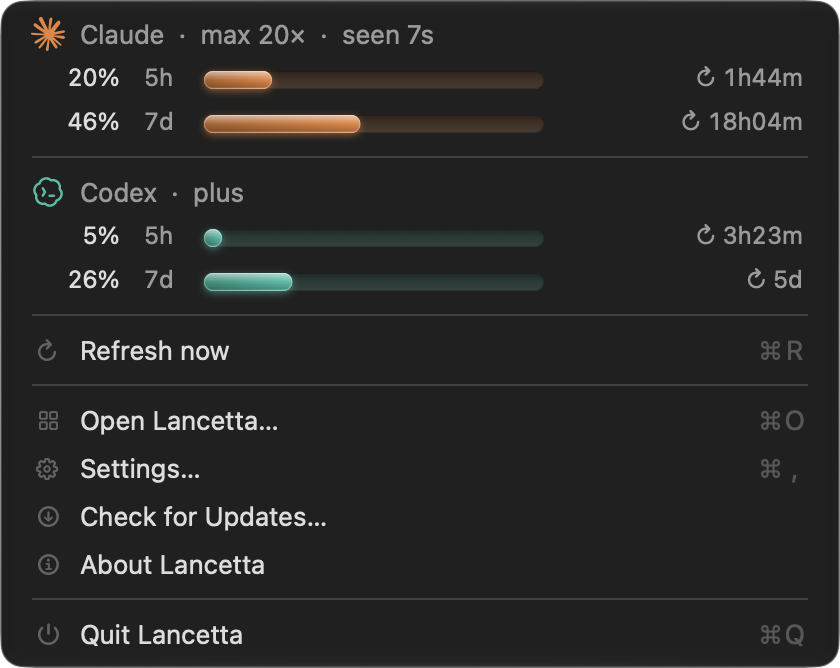
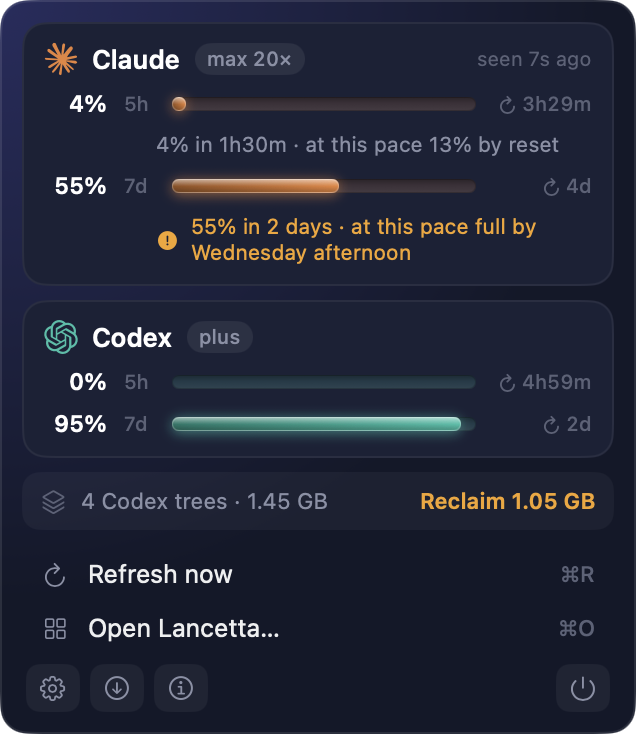
docs: the menu is a panel, and the pace line ships
Two things land in the app's v0.4 and this site described neither.

The status menu is now a panel: an NSMenu's background belongs to the
system, so the one surface of the app that was system grey could not be
anything else while it stayed a menu. Every page that called it "the
menu" as a surface says panel, the nav entry is The Panel, and the route
stays /docs/the-menu so no link breaks. The capture is replaced and the
light one is deleted rather than re-shot: the panel is always dark now,
so there is no light variant to photograph, and a second file that is a
copy of the first is worse than one.

The pace line was undocumented. It gets its own section on the panel
page, the two switches that govern it in Settings, and a feature card
ahead of the age card -- the order in the grid mirrors the hero's, and
that is one decision rather than two.

The hero's advice frame drops `next` and takes the lead. HeroStage's own
comment asked for exactly this revisit and named the condition: the
reaper went first because it shipped and the advice did not, so the
page's first claim below the fold would otherwise have been a promise.
It ships now, so the deeper moat leads and the frame gets a screenshot
like any other -- a page that dresses a promise like a shipped feature
has to be read carefully to be trusted, and the inverse is just as true.

`heroReading` is re-read off the new capture, because it is read off the
screenshot beside it and a bar quoting numbers the picture does not show
[…]

diff --git a/components/HeroStage/HeroStage.tsx b/components/HeroStage/HeroStage.tsx
@@ -83,15 +83,28 @@ const windowSession: MenuBarReadingState = {
  * to advise from. So those two lead, and the surfaces that every monitor has
  * — a menu, an island, a window, a chart — come after them.
  *
- * The reaper goes FIRST of the two although the advice is the deeper moat,
- * for one reason that is not editorial: the reaper ships today and the advice
- * does not. The pace line is merged on `main` and sits after the v0.3.4 tag
- * (`9e7caaf`, `82952ee`), and the alerts are still PR #36. A page whose first
- * claim below the fold is a promise is a weaker page than one whose first
- * claim is a number. When a release carries the pace, this order is worth
- * revisiting and `next` comes off that frame.
+ * The ADVICE goes first since v0.4, and that is the revisit this comment used
+ * to ask for. It was second, behind the reaper, for one reason that was not
+ * editorial: the advice did not ship, so the page's first claim below the fold
+ * would have been a promise rather than a number. The pace line ships in v0.4,
+ * so the deeper moat leads and the frame has a screenshot like any other.
+ * (The alerts are still PR #36, and they are on the roadmap, not here.)
  */
 const frames: Frame[] = [
+  {
+    src: '/screenshot-pace.png',
+    alt: 'A Lancetta card: the five-hour window at 4% with the line “4% in 1h30m · at this pace 13% by reset” under it, and the weekly window at 55% with “55% in 2 days · at this pace full by Wednesday afternoon” in amber',
+    eyebrow: 'What nothing else can say',
+    title: 'The number you can already see is not the useful one.',
+    body: 'The percentage is on your menu bar all day, so you already know when it is getting low. What you cannot see is whether this pace empties the window before it resets. Lancetta says it under the bar it is about, in the same place every time, amber only when the window would run out early — because a line that appears only in trouble is one nobody has learnt to read by the time it matters. It can say it because it keeps a series of its own readings; the field keeps the ceiling and the flow and no history at all.',
+    figures: [
+      { value: '7 days', label: 'the window that actually hurts' },
+      { value: 'since v0.2', label: 'the series it reads' },
+    ],
+    href: '/docs/the-menu#the-pace-line',
+    linkLabel: 'How the pace line reads',
+    reading: windowSession,
+  },
   {
     src: '/screenshot-window-processes.png',
     alt: 'The Processes pane: four Codex trees with the directory each one was started for, what it is holding and how many children it has, three of them marked as orphans, and a Reclaim button over the total',
@@ -106,21 +119,6 @@ const frames: Frame[] = [
     href: '/docs/memory',
     linkLabel: 'What accumulates, and why nothing reaps it',
     reading: windowSession,
-  },
-  {
-    src: '',
-    alt: '',
-    eyebrow: 'Next',
-    title: 'The number you can already see is not the useful one.',
-    body: 'The percentage is on your menu bar all day, so you already know when it is getting low. What you cannot see is whether this pace empties the window before it resets — and the moment you are no longer blocked, which is the one nobody can watch for, because being blocked is why they went somewhere else. Lancetta keeps a quota series, which is what an answer to either question needs; the field keeps the ceiling and the flow and no history at all.',
-    figures: [
-      { value: '7 days', label: 'the window that actually hurts' },
-      { value: 'since v0.2', label: 'the series it reads' },
-    ],
-    href: '/docs/roadmap',
-    linkLabel: 'Where this is in the roadmap',
-    reading: windowSession,
-    next: true,
   },
   {
     src: '/screenshot-notch-open.png',
@@ -178,15 +176,15 @@ const frames: Frame[] = [
  */
 const heroReading: MenuBarReadingState = {
   cells: [
-    { agent: 'claude', percent: 20, resets: '1h44m' },
-    { agent: 'codex', percent: 5, resets: '3h23m' },
+    { agent: 'claude', percent: 4, resets: '3h29m' },
+    { agent: 'codex', percent: 0, resets: '4h59m' },
   ],
   open: true,
 };
 
 const HERO_SHOT = {
   src: '/screenshot-menu-dark.png',
-  alt: 'The Lancetta menu: Claude Code and Codex, each with a 5-hour and a 7-day quota window and the time it resets',
+  alt: 'The Lancetta panel: Claude Code and Codex, each with a 5-hour and a 7-day quota window, the time each one resets, and the line saying where the window ends at the current rate',
 };
 
 export function HeroStage({ cadence = fallbackReleaseCadence() }: { cadence?: Cadence }) {

diff --git a/components/Welcome/Welcome.tsx b/components/Welcome/Welcome.tsx
@@ -8,6 +8,7 @@ import {
   IconBellRinging,
   IconBook2,
   IconChartHistogram,
+  IconChartLine,
   IconClockHour4,
   IconCreditCardOff,
   IconGauge,
@@ -81,8 +82,11 @@ interface Feature {
  * feature, and a card with no "will" and a badge reads as a lie.
  *
  * THE ORDER IS LOAD-BEARING, and mirrors the hero's three lines. First the
- * promise (the quota), then the two claims no competitor can make: that every
- * reading carries its age, and the orphaned trees nobody else reaps. Reclaim
+ * promise (the quota), then the claims no competitor can make: where this pace
+ * lands, that every reading carries its age, and the orphaned trees nobody
+ * else reaps. The pace card joined them in v0.4, ahead of the age, because
+ * the hero leads on it too — the order in the two places is one decision.
+ * Reclaim
  * sat SEVENTH until 2026-09-20, behind the notch and the mark switcher, while
  * the grid opened on "both windows, both agents" — which is exactly what the
  * free, open-source, 74-provider alternative also does. A reader who knows that
@@ -97,6 +101,14 @@ const features: Feature[] = [
       'The 5-hour and the 7-day window for Codex and Claude Code, drawn as bars, with the time each one resets beside it.',
     color: 'teal',
     href: '/docs/the-menu',
+  },
+  {
+    icon: IconChartLine,
+    title: 'Where this pace lands',
+    description:
+      'Under each bar, one line saying where that window ends at the rate you are going — amber only when it would run out before it resets. It can say it because it keeps a series of its own readings; the field keeps the ceiling and the flow and no history at all.',
+    color: 'orange',
+    href: '/docs/the-menu#the-pace-line',
   },
   {
     icon: IconClockHour4,
@@ -180,9 +192,15 @@ const roadmap = [
     state: 'shipped',
   },
   {
+    version: 'v0.4',
+    title: 'The pace, and the panel',
+    body: 'Under each bar, where that window ends at the rate you are going — amber only when it would run out early, and silent about the weekly one until your Mac has watched it turn over. And the menu became a panel in the app’s own navy: 318 points where a menu needed 466, with the four windowing commands as buttons along the bottom.',
+    state: 'shipped',
+  },
+  {
     version: 'Next',
     title: 'It speaks first',
-    body: 'A window that refused, a threshold crossed, a source gone quiet — and quota about to evaporate unused.',
+    body: 'A window that refused, and a source gone quiet past its own cadence. The advice half of this shipped in v0.4; what is left is the app speaking first rather than waiting to be looked at.',
     state: 'planned',
   },
   {

diff --git a/content/_meta.tsx b/content/_meta.tsx
@@ -38,7 +38,7 @@ export default {
   index: nav(IconBook2, 'Introduction', 'lancetta'),
   '---get-started': { type: 'separator', title: 'Get Started' },
   'getting-started': nav(IconRocket, 'Getting Started', 'orange'),
-  'the-menu': nav(IconLayoutNavbar, 'The Menu', 'teal'),
+  'the-menu': nav(IconLayoutNavbar, 'The Panel', 'teal'),
   'the-notch': nav(IconDeviceDesktop, 'The Notch', 'violet'),
   'the-window': nav(IconAppWindow, 'The Window', 'cyan'),
   '---how-it-works': { type: 'separator', title: 'How it works' },
